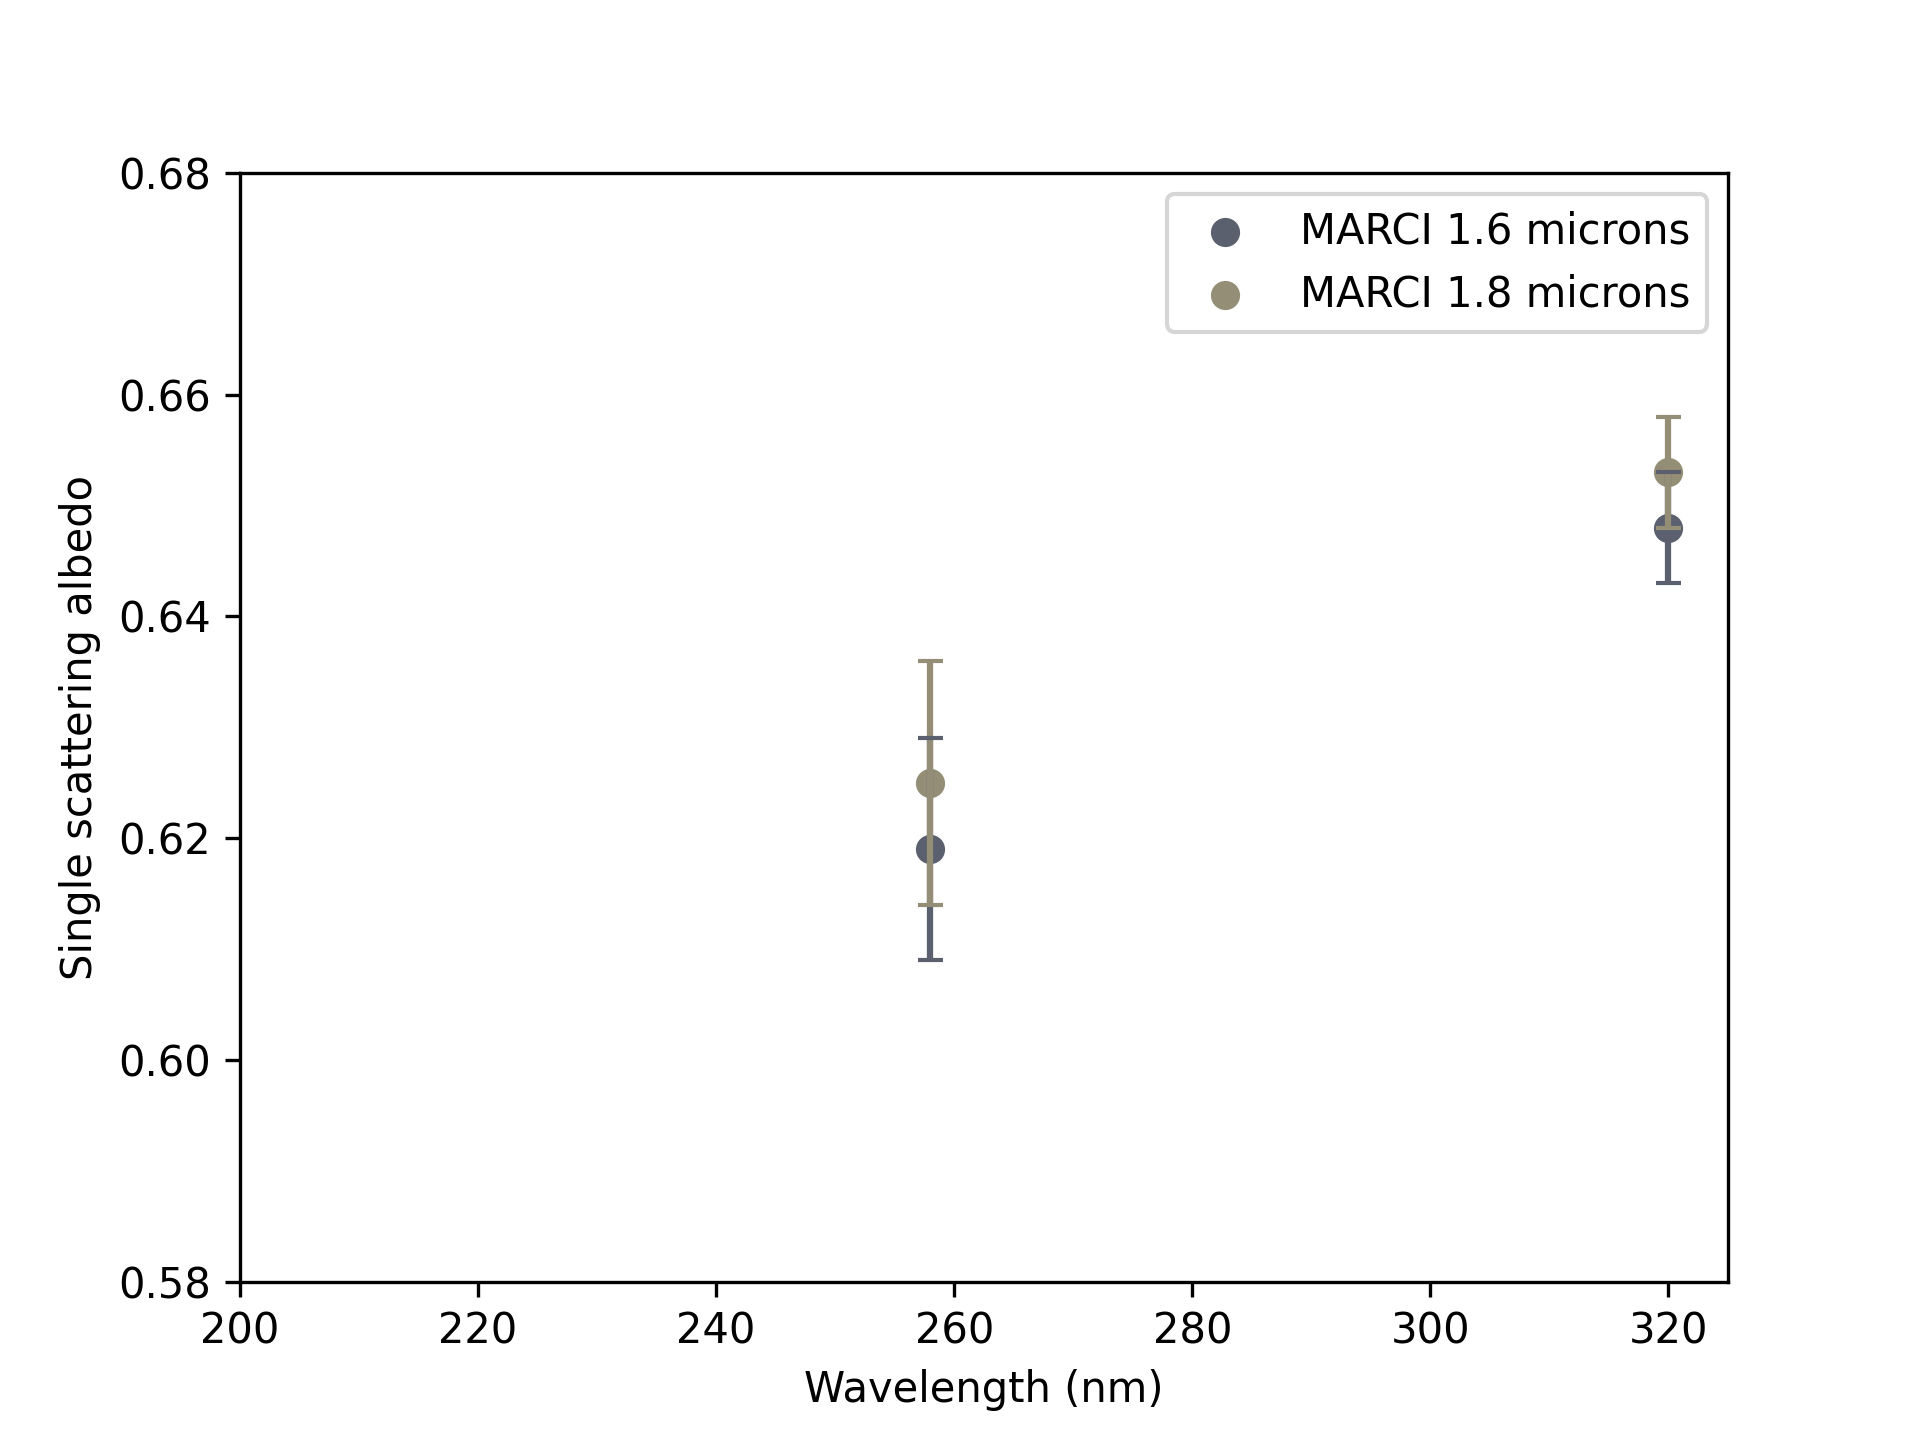
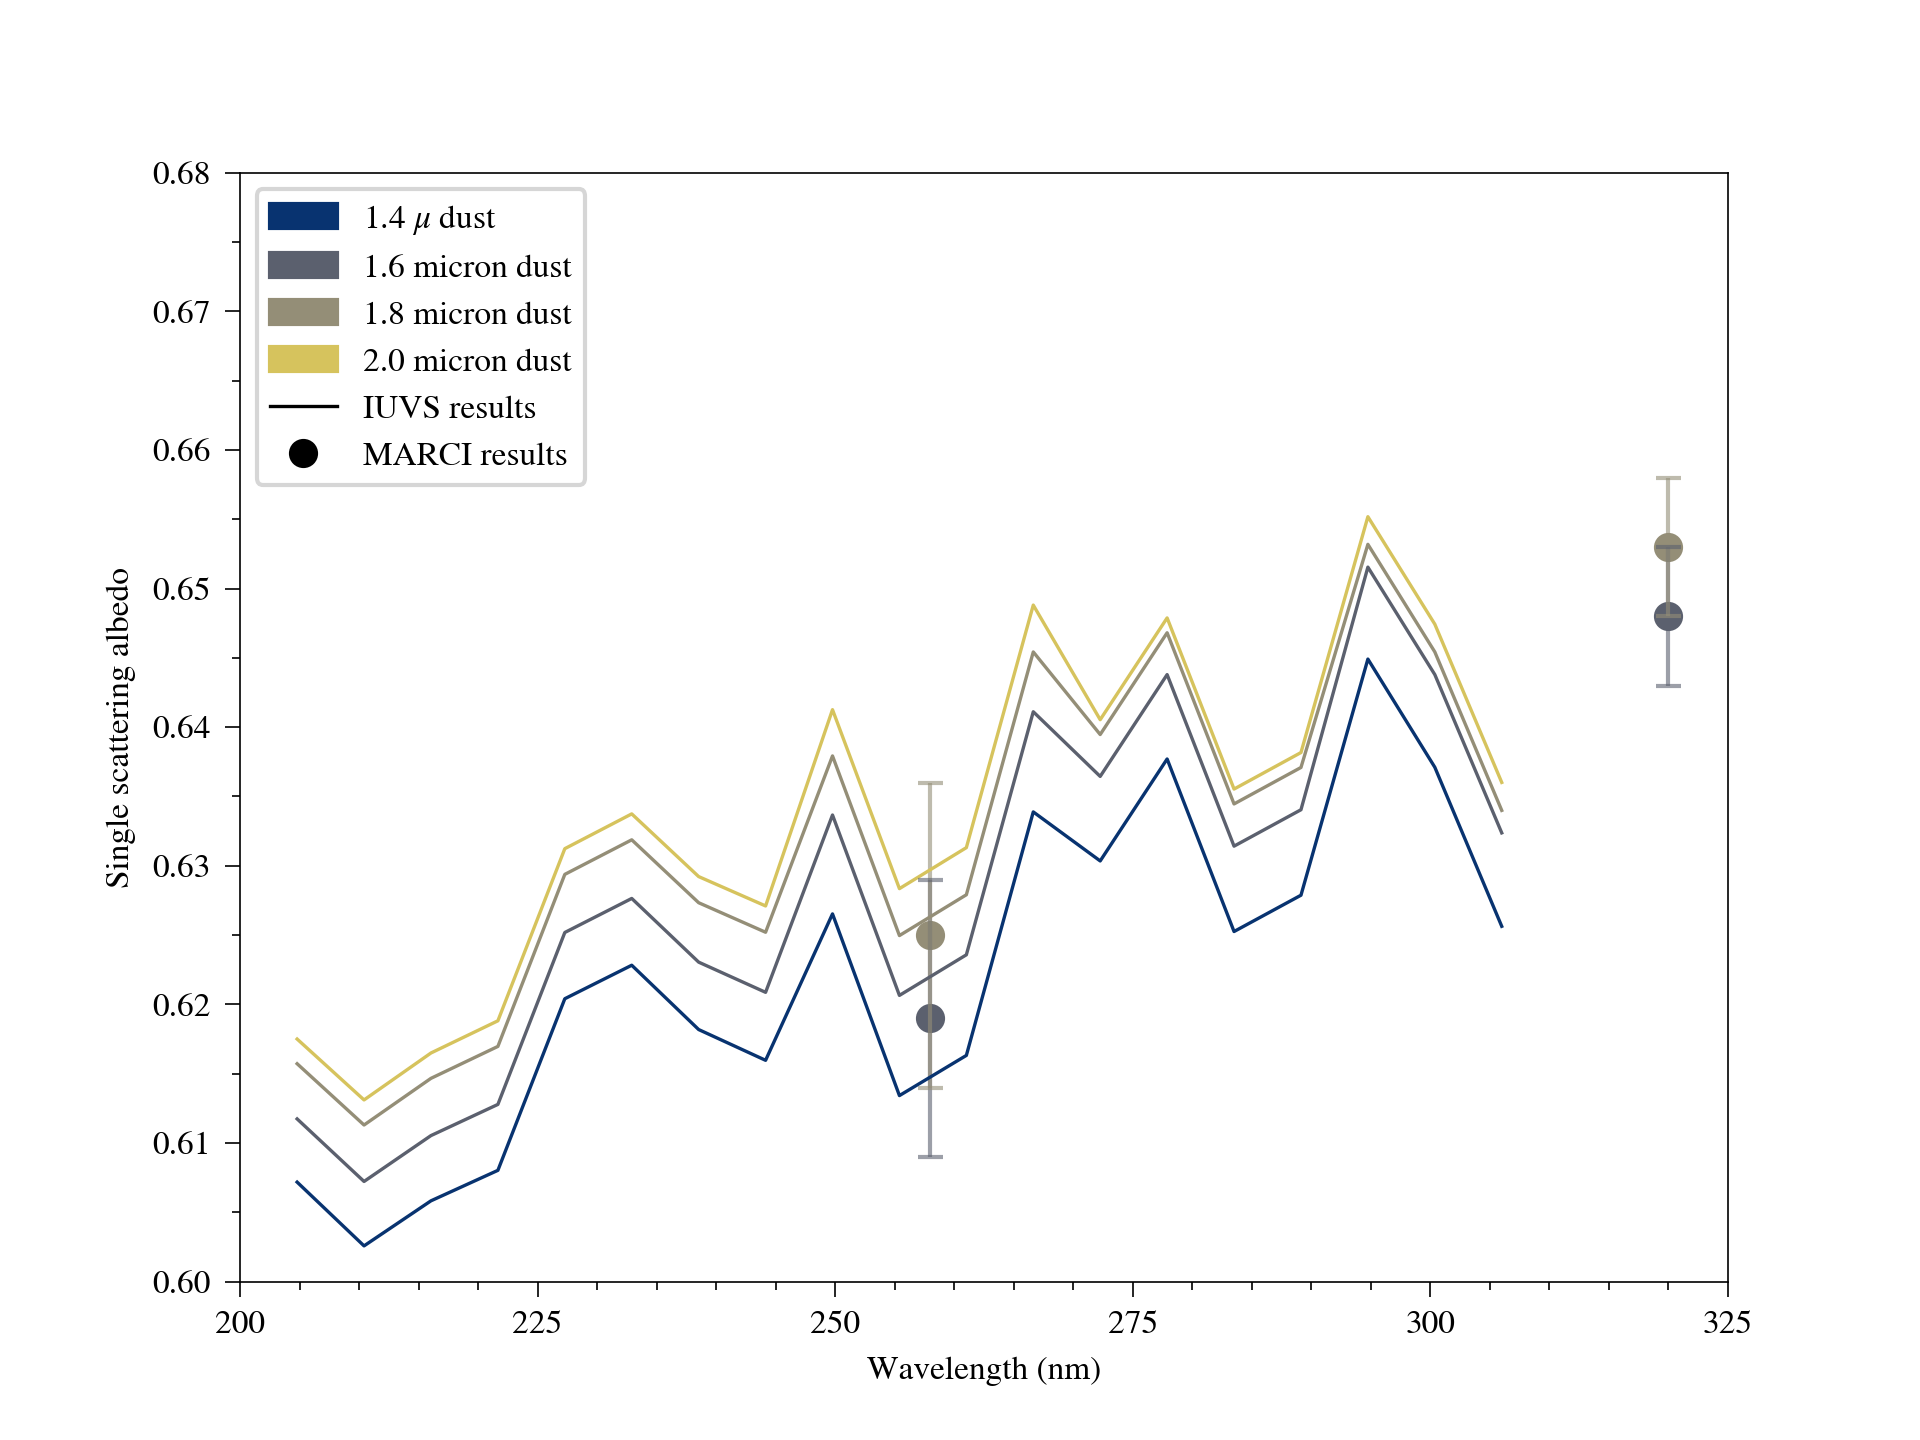
Add a cleaner linestyle

diff --git a/code/ssa_spectra.py b/code/ssa_spectra.py
@@ -1,4 +1,39 @@
 import matplotlib.pyplot as plt
+import matplotlib.patches as patches
+import matplotlib.lines as lines
+import numpy as np
+from astropy.io import fits
+
+# TODO: match Icarus fonts + line thicknesses (gulliver)
+# TODO: 2 column legend?
+# TODO: trim down the white space, particularly at the top
+# TODO: Fix the IUVS section to just read in the answer
+
+plt.rc('pdf', fonttype=42)  # ???
+plt.rc('ps', fonttype=42)  # postscript
+font_size = 8
+plt.rc('font', size=font_size)
+plt.rc('axes', titlesize=font_size)
+plt.rc('axes', labelsize=font_size)
+plt.rc('axes', titlepad=3)  # Set a little space around the title
+plt.rc('xtick', labelsize=font_size)
+plt.rc('ytick', labelsize=font_size)
+plt.rc('legend', fontsize=font_size)
+plt.rc('figure', titlesize=font_size)
+plt.rc('font', **{'family': 'STIXGeneral'})  # Set the font to Stix
+plt.rc('mathtext', fontset='stix')  # Set all LaTeX font to Stix
+plt.rc('text', usetex=False)
+
+# Set the thickness of plot borders
+plthick = 0.4
+plt.rc('lines', linewidth=0.8)
+plt.rc('axes', linewidth=plthick)
+plt.rc('xtick.major', width=plthick)
+plt.rc('xtick.minor', width=plthick)
+plt.rc('ytick.major', width=plthick)
+plt.rc('ytick.minor', width=plthick)
+plt.rc('pdf', compression=3)
+plt.rcParams.update({'font.size': 8})
 
 fig, ax = plt.subplots()
 
@@ -9,19 +44,89 @@ color_16 = list(cividis(0.35))
 color_18 = list(cividis(0.6))
 color_20 = list(cividis(0.85))
 
-# Add MARCI results
-ax.scatter([258, 320], [0.619, 0.648], label='MARCI 1.6 microns', color=color_16)
-ax.scatter([258, 320], [0.625, 0.653], label='MARCI 1.8 microns', color=color_18)
-ax.errorbar(258, 0.619, yerr=0.010, capsize=3, color=color_16)
-ax.errorbar(320, 0.648, yerr=0.005, capsize=3, color=color_16)
-ax.errorbar(258, 0.625, yerr=0.011, capsize=3, color=color_18)
-ax.errorbar(320, 0.653, yerr=0.005, capsize=3, color=color_18)
+# Add IUVS results
+iteration = 5
+f0 = np.load(f'/home/kyle/ssa_retrievals/iteration{iteration}/new-fsp_new-pf_hapke-wolff_1-4size.npy')
+g0 = np.load(f'/home/kyle/ssa_retrievals/iteration{iteration}/new-fsp_new-pf_hapke-wolff_1-6size.npy')
+h0 = np.load(f'/home/kyle/ssa_retrievals/iteration{iteration}/new-fsp_new-pf_hapke-wolff_1-8size.npy')
+i0 = np.load(f'/home/kyle/ssa_retrievals/iteration{iteration}/new-fsp_new-pf_hapke-wolff_2-0size.npy')
 
+iteration: int = 6
+
+# Load the retrieval
+wavs = np.load('/home/kyle/iuvs_wavelengths.npy')
+f = np.load(f'/home/kyle/ssa_retrievals/iteration{iteration}/new-fsp_new-pf_hapke-wolff_1-4size.npy')
+g = np.load(f'/home/kyle/ssa_retrievals/iteration{iteration}/new-fsp_new-pf_hapke-wolff_1-6size.npy')
+h = np.load(f'/home/kyle/ssa_retrievals/iteration{iteration}/new-fsp_new-pf_hapke-wolff_1-8size.npy')
+i = np.load(f'/home/kyle/ssa_retrievals/iteration{iteration}/new-fsp_new-pf_hapke-wolff_2-0size.npy')
+
+#f_high_unc = np.load('/home/kyle/ssa_retrievals/const-fsp_const-pf_hapke-wolff_1-5size_high-uncertainty.npy')
+#f_low_unc = np.load('/home/kyle/ssa_retrievals/const-fsp_const-pf_hapke-wolff_1-5size_low-uncertainty.npy')
+# Note regarding f: It has shape (6857, 19). 4774 of them are a NaN (they have
+#  OD < 5 or too high SZA or EA. 2083 of them fit the OD and angular criteria
+
+# Get the Gale crater pixel data
+file = '/home/kyle/repos/pyuvs-rt/ssa_files/gale_pixels_slit.fits'
+hdul = fits.open(file)
+
+reflectance = hdul['reflectance'].data
+uncertainty = hdul['uncertainty'].data
+
+position = hdul['position'].data
+szas = hdul['sza'].data
+eas = hdul['ea'].data
+ls = hdul['ls'].data
+
+# Plot averages
+inds = np.where((szas <= 50) & (eas <= 72) & (f[:, 0] >= 0))
+f0 = np.mean(f0[inds], axis=0)
+g0 = np.mean(g0[inds], axis=0)
+h0 = np.mean(h0[inds], axis=0)
+i0 = np.mean(i0[inds], axis=0)
+f = np.mean(f[inds], axis=0)
+g = np.mean(g[inds], axis=0)
+h = np.mean(h[inds], axis=0)
+i = np.mean(i[inds], axis=0)
+
+# TODO: fix this in upcoming iteration
+fnew = (f+f0)/2
+gnew = (g+g0)/2
+hnew = (h+h0)/2
+inew = (i+i0)/2
+
+ax.plot(wavs, fnew, color=color_14)
+ax.plot(wavs, gnew, color=color_16)
+ax.plot(wavs, hnew, color=color_18)
+ax.plot(wavs, inew, color=color_20)
+################ End garbage section
+
+# Add MARCI results
+ax.scatter([258, 320], [0.619, 0.648], color=color_16)
+ax.scatter([258, 320], [0.625, 0.653], color=color_18)
+ax.errorbar(258, 0.619, yerr=0.010, elinewidth=1, capthick=1, capsize=3, color=color_16, alpha=0.6)
+ax.errorbar(320, 0.648, yerr=0.005, elinewidth=1, capthick=1, capsize=3, color=color_16, alpha=0.6)
+ax.errorbar(258, 0.625, yerr=0.011, elinewidth=1, capthick=1, capsize=3, color=color_18, alpha=0.6)
+ax.errorbar(320, 0.653, yerr=0.005, elinewidth=1, capthick=1, capsize=3, color=color_18, alpha=0.6)
+
+# Add the legend
+dust_14 = patches.Patch(color=color_14, label=r'1.4 $\mu$m dust')
+dust_16 = patches.Patch(color=color_16, label='1.6 $\mu$m dust')
+dust_18 = patches.Patch(color=color_18, label='1.8 $\mu$m dust')
+dust_20 = patches.Patch(color=color_20, label='2.0 $\mu$m dust')
+
+iuvs_symbol = lines.Line2D([], [], color='k', label='IUVS results')
+marci_symbol = lines.Line2D([], [], color='k', label='MARCI results', marker='o', linewidth=0)
+handles = [dust_14, dust_16, dust_18, dust_20, iuvs_symbol, marci_symbol]
+ax.legend(handles=handles)
+
+# Set ticks
+ax.set_xticks(np.linspace(200, 325, num=6))
+ax.set_xticks(np.linspace(200, 325, num=int((325-200)/5+1)), minor=True)
+ax.set_yticks(np.linspace(0.6, 0.68, num=int((0.68-0.6)/0.005+1)), minor=True)
 
 ax.set_xlim(200, 325)
-ax.set_ylim(0.58, 0.68)
+ax.set_ylim(0.6, 0.68)
 ax.set_xlabel('Wavelength (nm)')
 ax.set_ylabel('Single scattering albedo')
 
-plt.legend()
 plt.savefig(f'/home/kyle/repos/iuvs-dust-single-scattering-albedo/figures/ssa_spectra.png', dpi=300)
